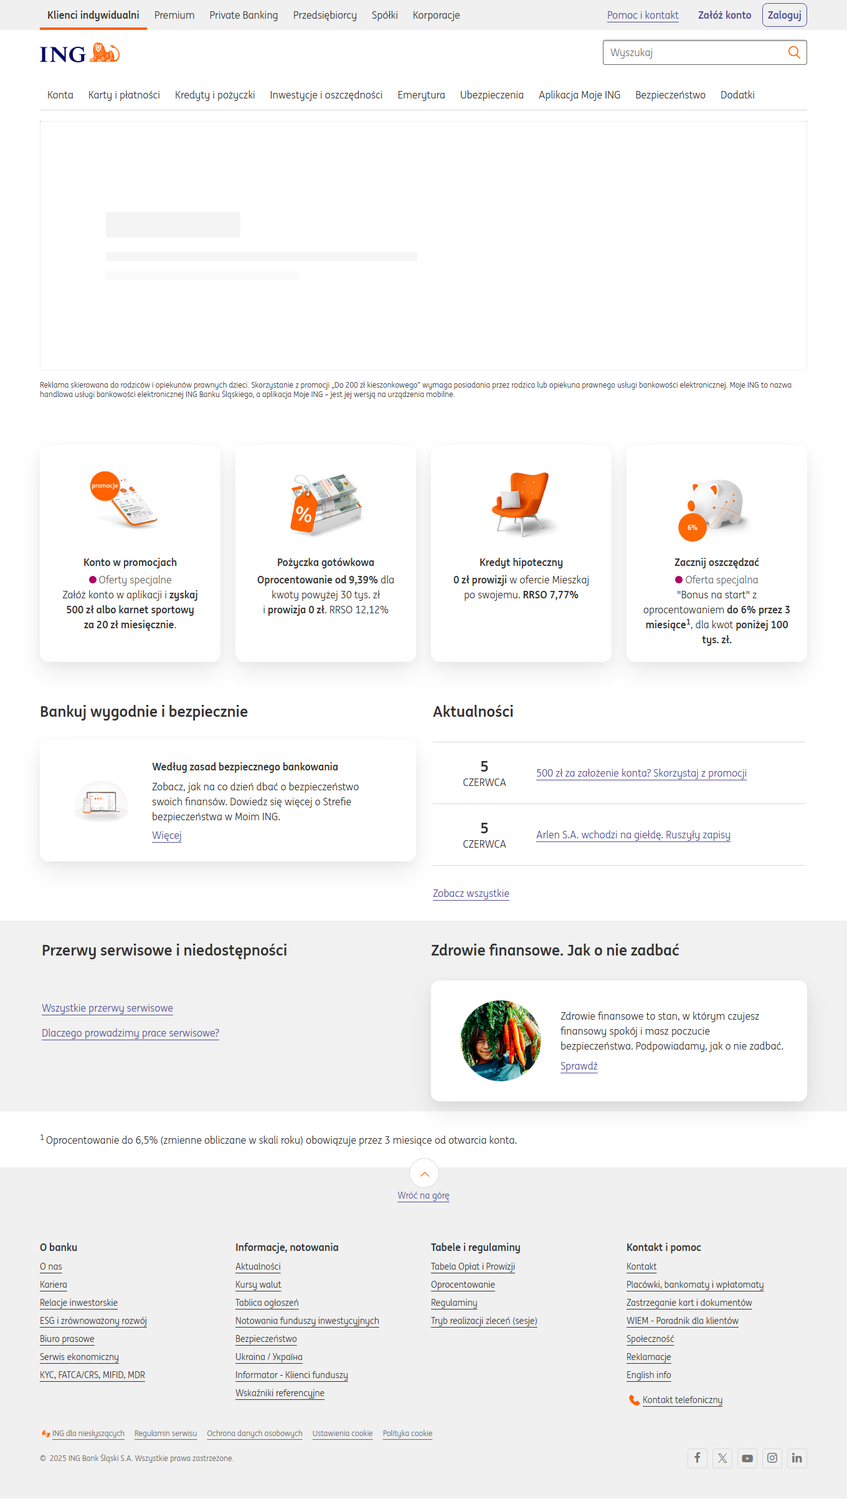
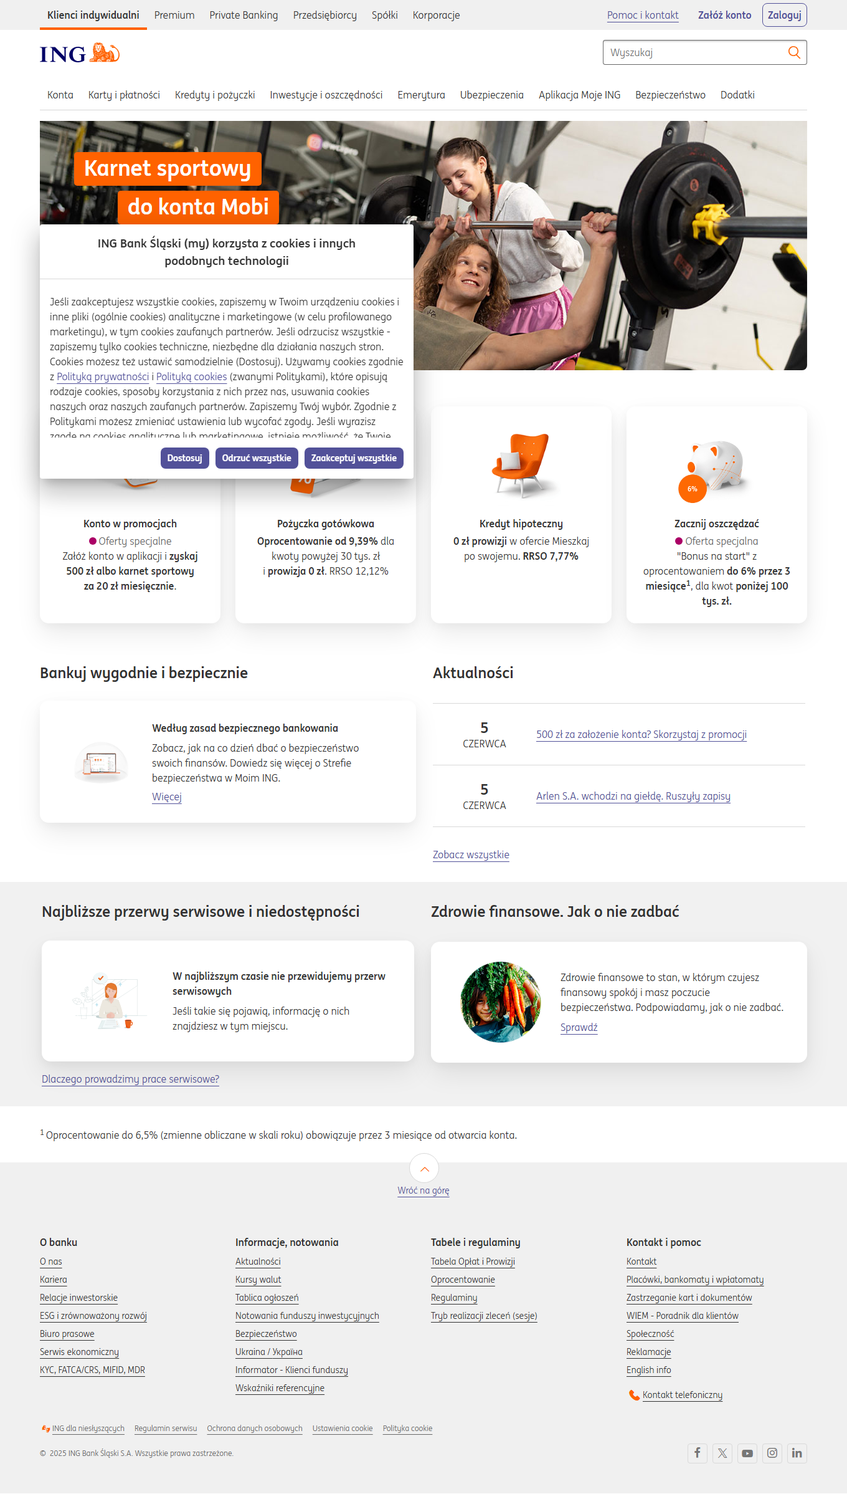
fix workflow

diff --git a/debug_dom.html b/debug_dom.html
@@ -24,14 +24,14 @@
 
 
         <link data-type="global" data-id="/" rel="stylesheet" type="text/css" href="/_static/css/comp/comp-ospe_banner.17246b4a8f5fad6a906c.css">
-        <link data-type="component" data-id="/" rel="stylesheet" type="text/css" href="/_static/css/comp/comp-html.c17cc43c2b110213d7ee.css">
-        <link data-type="component" data-id="/" rel="stylesheet" type="text/css" href="/_static/css/comp/comp-generic_block.acecd46f30447db40a8d.css">
         <link data-type="component" data-id="/" rel="stylesheet" type="text/css" href="/_static/css/comp/comp-content.36fa7931da9708ceafc5.css">
-        <link data-type="component" data-id="/" rel="stylesheet" type="text/css" href="/_static/css/comp/comp-bubble_menu.7e1ec060d1c48a53c45e.css">
-        <link data-type="component" data-id="/" rel="stylesheet" type="text/css" href="/_static/css/comp/comp-small_teaser_tiles.b0d99f5f6dce627a03ef.css">
-        <link data-type="component" data-id="/" rel="stylesheet" type="text/css" href="/_static/css/comp/comp-news_small_list.8596c1738a5379d2a9cb.css">
         <link data-type="component" data-id="/" rel="stylesheet" type="text/css" href="/_static/css/comp/comp-adocean_banner.dd898c9e3b2d555f7079.css">
+        <link data-type="component" data-id="/" rel="stylesheet" type="text/css" href="/_static/css/comp/comp-news_small_list.8596c1738a5379d2a9cb.css">
+        <link data-type="component" data-id="/" rel="stylesheet" type="text/css" href="/_static/css/comp/comp-html.c17cc43c2b110213d7ee.css">
+        <link data-type="component" data-id="/" rel="stylesheet" type="text/css" href="/_static/css/comp/comp-small_teaser_tiles.b0d99f5f6dce627a03ef.css">
         <link data-type="component" data-id="/" rel="stylesheet" type="text/css" href="/_static/css/comp/comp-wide_tiles.f77fb581414e54cfa757.css">
+        <link data-type="component" data-id="/" rel="stylesheet" type="text/css" href="/_static/css/comp/comp-generic_block.acecd46f30447db40a8d.css">
+        <link data-type="component" data-id="/" rel="stylesheet" type="text/css" href="/_static/css/comp/comp-bubble_menu.7e1ec060d1c48a53c45e.css">
         <link data-type="header" data-id="1500160.d6433c2dc7c770c446f66d25765677b6ac20b54edd6fdc8f0d4155757c13550b" rel="stylesheet" type="text/css" href="/_static/css/header_pwa.b4cf70c4ec33a67beca1.css">
         <link data-type="footer" data-id="1500168.f20ad5ed5a57e70314b30ec0a9944dc5bf25f9bdbca24e5080a327ec4cc2b805" rel="stylesheet" type="text/css" href="/_static/css/footer_pwa.242634f15e2d0f64c8c3.css">
         <link data-type="template" data-id="1500012.c442eb37dcd3d96fcf3388942a3f743eae50a80e9895d3ff714a32d788bfef44" rel="stylesheet" type="text/css" href="/_static/css/section_divider.b31fd2eb7ad1e6521a57.css">
@@ -1555,8 +1555,8 @@ notificationText {
     <div id="component_wrapper_1404490001" class="layout_element component_wrapper wrapped_adocean_banner">
      <div class="component adocean_banner component_1404490001 space--topZero space--bottomZero" data-component-id="1404490001" data-component-type-code="adocean_banner" data-js-parameters="{&quot;componentData&quot;:{&quot;adoceanBannerUrl&quot;:&quot;https://content.ingbank.pl/ad.js&quot;,&quot;adoceanBannerId&quot;:&quot;ABqmAbxb8kNzBcsCYvMiqp_g7kh5rpugSQ6oJSSf2OX.j7&quot;}}" id="adocean_banner_2_16062020"> 
        
-      <div class="adocean_banner__inner js-adocean_banner__inner clickable" aria-labelledby="slogan-1 slogan-2 slogan-3" aria-describedby="banner-img-label" style="background-image: url(&quot;https://content.ingbank.pl/files/x/pjk/kcuhguh/repnlrefbx/pl_accounts_mobi_SEEmedicover-duet_1232x400.jpg&quot;);"><h2 class="adocean_banner__content"><span class="adocean_banner__slogan adocean_banner__slogan--v1" id="slogan-1" style="top: 50px; left: 55px;">Karnet sportowy</span><span class="adocean_banner__slogan adocean_banner__slogan--v2" id="slogan-2" style="top: 112px; left: 125px;">do konta Mobi</span><span class="adocean_banner__slogan adocean_banner__slogan--v3" id="slogan-3" style="top: 174px; left: 55px;">za 20 zł miesięcznie</span><a href="https://adocean-pl.hit.gemius.pl/hitredir/id=bD3r2xA8QG7LCn2rLg4.UHZ2XhaBNoe6XdJP25kkmhX.q7/nc=1/stparam=wpgljsirvi/fastid=gvkmsrrmubysttnbglbkjxaofxms/sarg=NC;/inner=%7Cao_uniq%3Dolligrrtretpinqndedgicfh%7C;/extra=;/url=https://www.ing.pl/lp/karnet-sportowy" class="adocean_banner__button fuchsia s-link">Sprawdź szczegóły</a></h2><span id="banner-img-label"></span></div> 
-     <img src="https://adocean-pl.hit.gemius.pl/redot.gif/id=bD3r2xA8QG7LCn2rLg4.UHZ2XhaBNoe6XdJP25kkmhX.q7/nc=1/stparam=zopegvoman/fastid=cyszoyznrbuungktpdvgjpgvhxon/sarg=NC;/inner=%7Cao_uniq%3Dolligrrtretpinqndedgicfh%7C;/extra=;" class="adocean_banner__analiticsImage sr-only" alt=""><span class="adocean_banner__disclaimer"></span></div>
+      <div class="adocean_banner__inner js-adocean_banner__inner clickable" aria-labelledby="slogan-1 slogan-2 slogan-3" aria-describedby="banner-img-label" style="background-image: url(&quot;https://content.ingbank.pl/files/x/pjk/kcuhguh/ygerfjssqi/TOP-RD-1232x400_12.png&quot;);"><h2 class="adocean_banner__content"><span class="adocean_banner__slogan adocean_banner__slogan--v1" id="slogan-1" style="top: 50px; left: 55px;">Konto Mobi</span><span class="adocean_banner__slogan adocean_banner__slogan--v2" id="slogan-2" style="top: 112px; left: 145px;">z apką Moje ING</span><a href="https://adocean-pl.hit.gemius.pl/hitredir/id=bD3r2xA8QG7LCn2rLg4.UHZ2XhaBNoe6XdJP25kkmhX.q7/nc=1/stparam=ncmodkgpqx/fastid=gvkmsrrmubysttnbglbkjxaofxms/sarg=NC;/inner=%7Cao_uniq%3Dnwmojhfoxqojsrmudedgicfh%7C;/extra=;/url=https://www.ing.pl/lp/kieszonkowe-od-ing?site=3" class="adocean_banner__button indigo s-link">Sprawdź promocję</a></h2><span id="banner-img-label"></span></div> 
+     <img src="https://adocean-pl.hit.gemius.pl/redot.gif/id=bD3r2xA8QG7LCn2rLg4.UHZ2XhaBNoe6XdJP25kkmhX.q7/nc=1/stparam=qbfiqmmkvc/fastid=cyszoyznrbuungktpdvgjpgvhxon/sarg=NC;/inner=%7Cao_uniq%3Dnwmojhfoxqojsrmudedgicfh%7C;/extra=;" class="adocean_banner__analiticsImage sr-only" alt=""><span class="adocean_banner__disclaimer">Reklama skierowana do rodziców i opiekunów prawnych dzieci. Skorzystanie z promocji „Do 200 zł kieszonkowego” wymaga posiadania przez rodzica lub opiekuna prawnego usługi bankowości elektronicznej. Moje ING to nazwa handlowa usługi bankowości elektronicznej ING Banku Śląskiego, a aplikacja Moje ING – jest jej wersją na urządzenia mobilne.</span></div>
     </div>
     <div id="component_wrapper_1404489986" class="layout_element component_wrapper wrapped_content">
      <div class="component content component_1404489986 space--topZero space--bottomZero" data-component-id="1404489986" data-component-type-code="content" data-js-parameters="{}" id="content_1_10112022"> 
@@ -1570,7 +1570,7 @@ notificationText {
       <div id="ado-gZHhuY96rKcfVnJSqWcY4z5PcD0BVwN26PfDD2jhFtL.t70" class="js-ado-IDgetter" style="display: none;"><script>+(function(){(function(){var c=window;c._AO_sendHits=function(g,k){var e={g:function(b){return b.split('[TIMESTAMP]').join((new Date).getTime())},f:function(b){if('object'!==typeof b)return b;var a=b.url;'commit'===b.type&&''!==a&&(a.match(/[&/]$/)||(a+='&'),a+='url=');return a},h:function(b,a){if('[object Array]'===Object.prototype.toString.call(b)&&0<b.length){for(var d='',c=b.length-1;0<c;c--){var f=c-1===a?function(a){return a}:encodeURIComponent;b[c]&&(d=f(e.g(e.f(b[c]))+d))}return d=e.g(e.f(b[0]))+d}},l:function(b,
 a){a=e.h(b,a);if(!a)try{console.warn('AO: invalid hit chain',b)}catch(l){}else if(!c.navigator.sendBeacon||!c.navigator.sendBeacon(a,''))return a}},d={m:function(b){d.i(function(){for(var a=0;a<b.length;a++)b[a]&&d.a.contentWindow.s(b[a])})},a:null,c:[],j:function(){var b=c.document.getElementById('AO-hit');b&&'iframe'==b.tagName.toLowerCase()&&(d.a=b,d.c=b.b)},i:function(b){d.a||d.j();d.c.push(b);if(!d.a){var a=d.a=c.document.createElement('iframe');a.id='AO-hit';a.b=d.c;a.onload=function(){a.onload=
 null;var b=a.contentWindow.document;b.open();b.write('<scr'+'ipt>window.s=function(u){(new Image(1,1)).src=u}</scr'+'ipt>');try{b.close()}catch(m){}for(;a.b.length;)a.b.shift()();a.b={push:function(a){a()}}};a.src='javascript:false';a.width=a.height=a.frameBorder=a.style.border=0;a.style.display='none';c.document.getElementsByTagName('body')[0].appendChild(a)}}};if('object'===typeof c.ado&&c.ado&&'function'===typeof c.ado.sendHits)c.ado.sendHits(g);else{var f,h=[];for(f=0;f<g.length;f++)h.push(e.l(g[f],
-k));d.m(h)}}})();return function(c){var a=window,b=a.parent;(a._AO_sendHits?a._AO_sendHits:a.inAOFIF&&b._AO_sendHits?b._AO_sendHits:function(){})(c,0)}})()([[{type: "commit", url:""},"https://adocean-pl.hit.gemius.pl/_[TIMESTAMP]/redot.js/id=babqwUuVf2KptmB_HG2zDqcVfUpsAcdZ1zeS96jXaP3.o7/nc=1/stparam=qhikoudkdc/fastid=jnuanqodvnaduvmvyiklbddiqflc/sarg=NC;/inner=_ch_arch%3Dx64%7C_ch_pm%3DWindows%7C_ch_pver%3D10.0%7C_ch_bits%3D64%7C_ch_mobile%3D0%7C_ch_wow64%3D0%7C_ch_brands%3D%7B%22Chromium%22%2C%22136.0.7103.25%22%7D%2C%7B%22HeadlessChrome%22%2C%22136.0.7103.25%22%7D%2C%7B%22Not.A%2FBrand%22%2C%2299.0.0.0%22%7D%7Cao_uniq%3Dhnmkmhhnleyrokopdedgicfh%7C;/extra=;"]]);</script><script src="https://content.ingbank.pl/_1750102357648/ad.js?id=gZHhuY96rKcfVnJSqWcY4z5PcD0BVwN26PfDD2jhFtL.t7/adov=4.7.0/x=1360/y=800/lptype=1/nc=1/inner=_ch_arch%3Dx64%7C_ch_pm%3DWindows%7C_ch_pver%3D10.0%7C_ch_bits%3D64%7C_ch_mobile%3D0%7C_ch_wow64%3D0%7C_ch_brands%3D%7B%22Chromium%22%2C%22136.0.7103.25%22%7D%2C%7B%22HeadlessChrome%22%2C%22136.0.7103.25%22%7D%2C%7B%22Not.A%2FBrand%22%2C%2299.0.0.0%22%7D"></script></div> 
+k));d.m(h)}}})();return function(c){var a=window,b=a.parent;(a._AO_sendHits?a._AO_sendHits:a.inAOFIF&&b._AO_sendHits?b._AO_sendHits:function(){})(c,0)}})()([[{type: "commit", url:""},"https://adocean-pl.hit.gemius.pl/_[TIMESTAMP]/redot.js/id=babqwUuVf2KptmB_HG2zDqcVfUpsAcdZ1zeS96jXaP3.o7/nc=1/stparam=qhikoudkdc/fastid=jnuanqodvnaduvmvyiklbddiqflc/sarg=NC;/inner=_ch_arch%3Dx64%7C_ch_pm%3DWindows%7C_ch_pver%3D10.0%7C_ch_bits%3D64%7C_ch_mobile%3D0%7C_ch_wow64%3D0%7C_ch_brands%3D%7B%22Chromium%22%2C%22136.0.7103.25%22%7D%2C%7B%22HeadlessChrome%22%2C%22136.0.7103.25%22%7D%2C%7B%22Not.A%2FBrand%22%2C%2299.0.0.0%22%7D%7Cao_uniq%3Dfwvldferornwippkdedgicfh%7C;/extra=;"]]);</script><script src="https://content.ingbank.pl/_1750102354771/ad.js?id=gZHhuY96rKcfVnJSqWcY4z5PcD0BVwN26PfDD2jhFtL.t7/adov=4.7.0/x=1360/y=800/lptype=1/nc=1/inner=_ch_arch%3Dx64%7C_ch_pm%3DWindows%7C_ch_pver%3D10.0%7C_ch_bits%3D64%7C_ch_mobile%3D0%7C_ch_wow64%3D0%7C_ch_brands%3D%7B%22Chromium%22%2C%22136.0.7103.25%22%7D%2C%7B%22HeadlessChrome%22%2C%22136.0.7103.25%22%7D%2C%7B%22Not.A%2FBrand%22%2C%2299.0.0.0%22%7D"></script></div> 
      </div>
     </div>
    </div>
@@ -2344,8 +2344,6 @@ width:750px;
         <script type="text/javascript" src="/_static/lib/cookies-manager.3957203b470842907798.js" data-no-hash-src="/_static/lib/cookies-manager.js"></script>
         <script type="text/javascript" src="/_static/lib/scroll_tracking_adobe.0104cd44e6e44842142e.js" data-no-hash-src="/_static/lib/scroll_tracking_adobe.js"></script>
         <script type="text/javascript" src="https://ospe.ing.pl/resource/app_id_1/init-ospe-engine.js" data-no-hash-src="https://ospe.ing.pl/resource/app_id_1/init-ospe-engine.js"></script>
-        <script type="text/javascript" src="https://content.ingbank.pl/files/js/ado.js" data-no-hash-src="https://content.ingbank.pl/files/js/ado.js"></script>
-        <script type="text/javascript" src="/_static/lib/sus.e2e563c8ab59e4786303.js" data-no-hash-src="/_static/lib/sus.js"></script>
         <script type="text/javascript" src="/_static/lib/vendor/jquery-1.9.1.min.416a3b2c3bf16d64f6b5.js" data-no-hash-src="/_static/lib/vendor/jquery-1.9.1.min.js"></script>
         <script type="text/javascript" src="/_static/lib/jquery-fn.702b5ab35e6c7b230868.js" data-no-hash-src="/_static/lib/jquery-fn.js"></script>
         <script type="text/javascript" src="/_static/lib/vendor/mobile-detect-v1.4.3.min.363a80d367e6658e72d9.js" data-no-hash-src="/_static/lib/vendor/mobile-detect-v1.4.3.min.js"></script>
@@ -2364,10 +2362,12 @@ width:750px;
         <script type="text/javascript" src="/_static/lib/vendor/platform-detect.e3fa26464d9c0aabf2dc.js" data-no-hash-src="/_static/lib/vendor/platform-detect.js"></script>
         <script type="text/javascript" src="/_static/lib/platform.ae4d90a34b235c2cf065.js" data-no-hash-src="/_static/lib/platform.js"></script>
         <script type="text/javascript" src="/_static/lib/rules-for-parameters-lib.dc406c54b2dc8788ca27.js" data-no-hash-src="/_static/lib/rules-for-parameters-lib.js"></script>
-        <script type="text/javascript" src="/_api/ds/ingrwd-lds/rules_for_parameters.js" data-no-hash-src="/_api/ds/ingrwd-lds/rules_for_parameters.js"></script>
         <script type="text/javascript" src="/_static/lib/table-utils.7c63ad192593430e612c.js" data-no-hash-src="/_static/lib/table-utils.js"></script>
+        <script type="text/javascript" src="/_api/ds/ingrwd-lds/rules_for_parameters.js" data-no-hash-src="/_api/ds/ingrwd-lds/rules_for_parameters.js"></script>
         <script type="text/javascript" src="/_static/lib/height.49259357f52356ae9e76.js" data-no-hash-src="/_static/lib/height.js"></script>
         <script type="text/javascript" src="/_static/lib/carouselArrowDots.d94989989ee5f2f3e3cb.js" data-no-hash-src="/_static/lib/carouselArrowDots.js"></script>
+        <script type="text/javascript" src="https://content.ingbank.pl/files/js/ado.js" data-no-hash-src="https://content.ingbank.pl/files/js/ado.js"></script>
+        <script type="text/javascript" src="/_static/lib/sus.e2e563c8ab59e4786303.js" data-no-hash-src="/_static/lib/sus.js"></script>
         <script type="text/javascript" src="/_static/lib/stringUtils.be42ca916fa0e980db18.js" data-no-hash-src="/_static/lib/stringUtils.js"></script>
         
         
@@ -2388,6 +2388,6 @@ width:750px;
         
         
         <div class="js-cookie-policy-box cpm-wrapper--hook cpm-stylesLoaded" id="cpm-wrapper" data-banner-type="all"><link crossorigin="anonymous" data-type="cookies-policy" rel="stylesheet" type="text/css" href="https://www.ing.pl/_api/ds/ingrwd-lds/cookie_policy/150018/cpm.css"><span class="cpm__transitionHelper isActive"></span><div class="cookie-policy-non_aggressive-popup js-cookie-policy-non_aggressive-popup"><div class="js-cookie-policy-main cookie-policy-popup cookie-policy-popup--all cpm--block"><div class="cookie-policy-content" role="dialog" tabindex="0"><div aria-labelledby="modal-header-1" class="cookie-policy-inner"><h2 class="cookie-policy-title" id="modal-header-1">ING Bank Śląski (my) korzysta z <span lang="en">cookies</span> i innych podobnych technologii</h2><div class="cookie-policy-description"><p>Jeśli zaakceptujesz wszystkie <span lang="en">cookies</span>, zapiszemy w Twoim urządzeniu <span lang="en">cookies</span> i inne pliki (ogólnie <span lang="en">cookies</span>) analityczne i marketingowe (w celu profilowanego marketingu), w tym <span lang="en">cookies</span> zaufanych partnerów. Jeśli odrzucisz wszystkie - zapiszemy tylko <span lang="en">cookies</span> techniczne, niezbędne dla działania naszych stron. <span lang="en">Cookies</span> możesz też ustawić samodzielnie (Dostosuj). Używamy <span lang="en">cookies</span> zgodnie z <a tabindex="1" href="https://www.ing.pl/indywidualni/tabele-i-regulaminy/regulacje/ochrona-danych-osobowych">Polityką prywatności</a> i <a tabindex="1" href="https://www.ing.pl/cookie">Polityką <span lang="en">cookies</span></a> (zwanymi Politykami), które opisują rodzaje <span lang="en">cookies</span>, sposoby korzystania z nich przez nas, usuwania <span lang="en">cookies</span> naszych oraz naszych zaufanych partnerów. Zapiszemy Twój wybór. Zgodnie z Politykami możesz zmieniać ustawienia lub wycofać zgody. Jeśli wyrazisz zgodę na <span lang="en">cookies</span> analityczne lub marketingowe, istnieje możliwość, że Twoje dane zostaną przekazane do kraju spoza Unii Europejskiej, który może nie zapewniać odpowiedniego poziomu ochrony danych.</p></div><div class="cookie-policy-btn-group"><div class="cookie-policy-btn-wrapper"><button class="js-cookie-policy-main-settings-button cookie-policy-button is--primary">Dostosuj</button><button class="js-cookie-policy-main-decline-button cookie-policy-button is--primary">Odrzuć wszystkie</button><button class="js-cookie-policy-main-accept-button cookie-policy-button is--primary">Zaakceptuj wszystkie</button></div></div></div></div></div><div class="js-cookie-policy-settings cpm--hidden cookie-policy-popup cookie-policy-popup--settings"><div class="cookie-policy-content" role="dialog" tabindex="0"><div aria-labelledby="modal-header-2" class="cookie-policy-inner"><button class="cookie-policy-arrow--left js-cookie-policy-settings-cancel-button"><span class="cookie-policy__srOnly">Wyjdź z ustawień</span></button><h2 class="cookie-policy-title" id="modal-header-2">Ustawienia plików <span lang="en">cookies</span> i innych technologii</h2><div class="js-cookie-policy-settings-acceptance-form cookie-policy-description"><div class="cookie-policy-type-wrapper"><div class="cookie-policy-type"><div class="cookie-policy-type--content"><h3 class="cookie-policy-type--title js-cookie-policy-title" id="header-1-technical"><span lang="en">Cookies</span> techniczne</h3><div class="cookie-policy-type--description" id="desc-1-technical"><p>Niezbędne dla prawidłowego działania naszych stron, są więc zawsze aktywne.</p><button aria-controls="cookie-policy-technical" data-expand="Rozwiń" data-collapse="Zwiń" data-aria-expand="Rozwiń informację o ciasteczkach technicznych" data-aria-collapse="Zwiń informację o ciasteczkach technicznych" aria-expanded="false" aria-label="Rozwiń informację o ciasteczkach technicznych" class="cookie-policy-expandButton">   <span class="expand_content__text">Rozwiń</span>   <span aria-hidden="true" class="icon-arrow web-icon"></span></button><div class="cookie-policy-link--content" id="cookie-policy-technical">   <p>Wykorzystujemy je m.in. do zapamiętywania wyrażonych przez Ciebie zgód. Możesz zablokować techniczne <span lang="en">cookies</span> w       ustawieniach swojej przeglądarki, ale wówczas strona może przestać działać lub nie działać poprawnie. Za ich       pomocą nie zbieramy danych osobowych.</p></div></div></div><div class="cookie-policy-switch"><div aria-checked="true" aria-describedby="desc-1-technical" aria-disabled="true" aria-labelledby="header-1-technical" class="cookie-policy-toggle-button state-disabled js-checkbox" name="CpmTechnicalOption" role="switch" tabindex="0"><span class="cookie-policy-toggle-slider"><span class="cookie-policy-slider-thumb"></span></span></div></div></div><div class="cookie-policy-type"><div class="cookie-policy-type--content"><h3 class="cookie-policy-type--title clickable js-cookie-policy-title" id="header-2-analytical"><span lang="en">Cookies</span> analityczne</h3><div class="cookie-policy-type--description" id="desc-2-analytical"><p>Umożliwiają nam gromadzenie danych na temat stron, które wyświetlasz, działań, jakie na nich podejmujesz czy miejsc,   z których do nas trafiasz.</p><button aria-controls="cookie-policy-analytical" aria-expanded="false" aria-label="Rozwiń informację o ciasteczkach analitycznych" data-expand="Rozwiń" data-collapse="Zwiń" data-aria-expand="Rozwiń informację o ciasteczkach analitycznych" data-aria-collapse="Zwiń informację o ciasteczkach analitycznych" class="cookie-policy-expandButton">   <span class="expand_content__text">Rozwiń</span>   <span aria-hidden="true" class="icon-arrow web-icon"></span></button><div class="cookie-policy-link--content" id="cookie-policy-analytical">  <p>Dzięki <span lang="en">cookies</span> analitycznym możemy poprawiać funkcjonowanie strony, mierzyć skuteczność działań marketingowych i       rozliczać się z partnerami biznesowymi. Za ich pomocą nie zbieramy danych osobowych.</p></div></div></div><div class="cookie-policy-switch"><div aria-checked="false" aria-describedby="desc-2-analytical" aria-labelledby="header-2-analytical" class="cookie-policy-toggle-button js-checkbox" name="CpmAnalyticalOption" role="switch" tabindex="0"><span class="cookie-policy-toggle-slider"><span class="cookie-policy-slider-thumb"></span></span></div></div></div><div class="cookie-policy-type"><div class="cookie-policy-type--content"><h3 class="cookie-policy-type--title clickable js-cookie-policy-title" id="header-3-marketing"><span lang="en">Cookies</span> marketingowe</h3><div class="cookie-policy-type--description" id="desc-3-marketing"><p>Pozwalają nam na przedstawianie profilowanych informacji handlowych dostosowanych do Twoich wyborów lub stron, które   odwiedzasz w Internecie.</p><button aria-controls="cookie-policy-marketing" data-expand="Rozwiń" data-collapse="Zwiń" data-aria-expand="Rozwiń informację o ciasteczkach marketingowych" data-aria-collapse="Zwiń informację o ciasteczkach marketingowych" aria-expanded="false" aria-label="Rozwiń informację o ciasteczkach marketingowych" class="cookie-policy-expandButton"><span class="expand_content__text">Rozwiń</span>   <span aria-hidden="true" class="icon-arrow web-icon"></span></button><div class="cookie-policy-link--content" id="cookie-policy-marketing">   <p>Dzięki nim wiemy, jak korzystasz z serwisu, w tym z oferowanych usług, możemy też łączyć zabrane na ich       podstawie       dane i informacje z innymi dotyczącymi Ciebie informacjami, które mamy lub otrzymamy w przyszłości. Zapoznaj       się       z <a href="https://www.ing.pl/indywidualni/tabele-i-regulaminy/regulacje/ochrona-danych-osobowych">wyjaśnieniami           użytych tu terminów i informacją banku</a>.</p></div></div></div><div class="cookie-policy-switch"><div aria-checked="false" aria-describedby="desc-3-marketing" aria-labelledby="header-3-marketing" class="cookie-policy-toggle-button js-checkbox" name="CpmMarketingOption" role="switch" tabindex="0"><span class="cookie-policy-toggle-slider"><span class="cookie-policy-slider-thumb"></span></span></div></div></div></div></div><div class="cookie-policy-btn-group"><div class="cookie-policy-btn-wrapper cookie-policy-btn-wrapper--settings cookie-policy-btn-wrapper--secondary"><button class="js-cookie-policy-settings-decline-all-button cookie-policy-button is--primary">Odrzuć wszystkie</button><button class="js-cookie-policy-settings-decline-button cookie-policy-button is--primary">Zaakceptuj zaznaczone</button></div></div></div></div></div></div></div>
-    <script type="text/javascript" src="/_Incapsula_Resource?SWJIYLWA=719d34d31c8e3a6e6fffd425f7e032f3&amp;ns=1&amp;cb=1292000863" async=""></script>
+    <script type="text/javascript" src="/_Incapsula_Resource?SWJIYLWA=719d34d31c8e3a6e6fffd425f7e032f3&amp;ns=1&amp;cb=976327917" async=""></script>
 
 </body></html>

diff --git a/tests/test_cookie_consent.py b/tests/test_cookie_consent.py
@@ -1,24 +1,39 @@
 import pytest
 from playwright.sync_api import expect, TimeoutError
 from pages.cookie_settings_page import CookieSettingsPage
+
 def test_accep(page):
     page.goto("https://www.pracuj.pl/")
     expect(page.locator('[data-test="button-submitCookie"]')).to_be_visible(timeout=60000)
 
 
 def test_debug_ing_home(page):
-    page.goto("https://www.ing.pl")
-    page.wait_for_load_state("load", timeout=60000)
+    page.goto("https://www.ing.pl", timeout=60000)
+    page.wait_for_load_state("networkidle", timeout=60000)
+    page.wait_for_selector("body", timeout=60000)
+
+    # Screenshot
+    page.screenshot(path="debug_screenshot.png", full_page=True)
+
+    # Dump HTML
+    with open("debug_dom.html", "w", encoding="utf-8") as f:
+        f.write(f"<h1>{page.title()}</h1><p>{page.url}</p>")
+        f.write(page.content())
+
     print("Tytuł strony:", page.title())
     body_text = page.locator("body").inner_text()
     print("BODY TEXT:", body_text[:500])
     assert "cookie" in body_text.lower() or "logowanie" in body_text.lower()
 
+
 def test_accept_analytics_cookie(page):
-    page.goto("https://www.ing.pl")
-    page.wait_for_load_state("load", timeout=60000)
+    page.goto("https://www.ing.pl", timeout=60000)
+    page.wait_for_load_state("networkidle", timeout=60000)
+    page.wait_for_selector("body", timeout=60000)
+
     print("TITLE:", page.title())
     print("URL:", page.url)
+
     page.screenshot(path="error_screenshot.png", full_page=True)
     with open("error_dom.html", "w", encoding="utf-8") as f:
         f.write(f"<h1>{page.title()}</h1><p>{page.url}</p>")
@@ -26,22 +41,18 @@ def test_accept_analytics_cookie(page):
 
     expect(page.locator("#login-desktop")).to_be_visible(timeout=60000)
 
-    # Inicjalizacja strony obsługi ciasteczek
     cookie_settings = CookieSettingsPage(page)
 
     try:
         cookie_settings.open_custom_settings()
     except TimeoutError as e:
-        # W razie błędu zrób screenshot i zapisz DOM
         page.screenshot(path="error_screenshot.png", full_page=True)
         with open("error_dom.html", "w", encoding="utf-8") as f:
             f.write(page.content())
         raise e
 
-    # Akceptacja ciasteczek analitycznych
     cookie_settings.accept_analytics_and_confirm()
 
-    # Pobierz ciasteczka i sprawdź
     cookies = page.context.cookies()
     policy_cookie = next((c for c in cookies if c["name"] == "cookiePolicyGDPR"), None)
     assert policy_cookie is not None, "Brak ciasteczka 'cookiePolicyGDPR'."

diff --git a/conftest.py b/conftest.py
@@ -32,10 +32,14 @@ def page(browser_name, headed_mode):
 
         page = context.new_page()
 
-        # ❗Dodaj ukrycie `navigator.webdriver` – musi być przed `goto`
+        # Ukrywanie automatyzacji
         page.add_init_script("""
             Object.defineProperty(navigator, 'webdriver', { get: () => undefined });
+            window.navigator.chrome = { runtime: {} };
+            Object.defineProperty(navigator, 'languages', { get: () => ['pl-PL', 'pl'] });
+            Object.defineProperty(navigator, 'plugins', { get: () => [1, 2, 3] });
         """)
+
         yield page
         context.close()
         browser.close()
